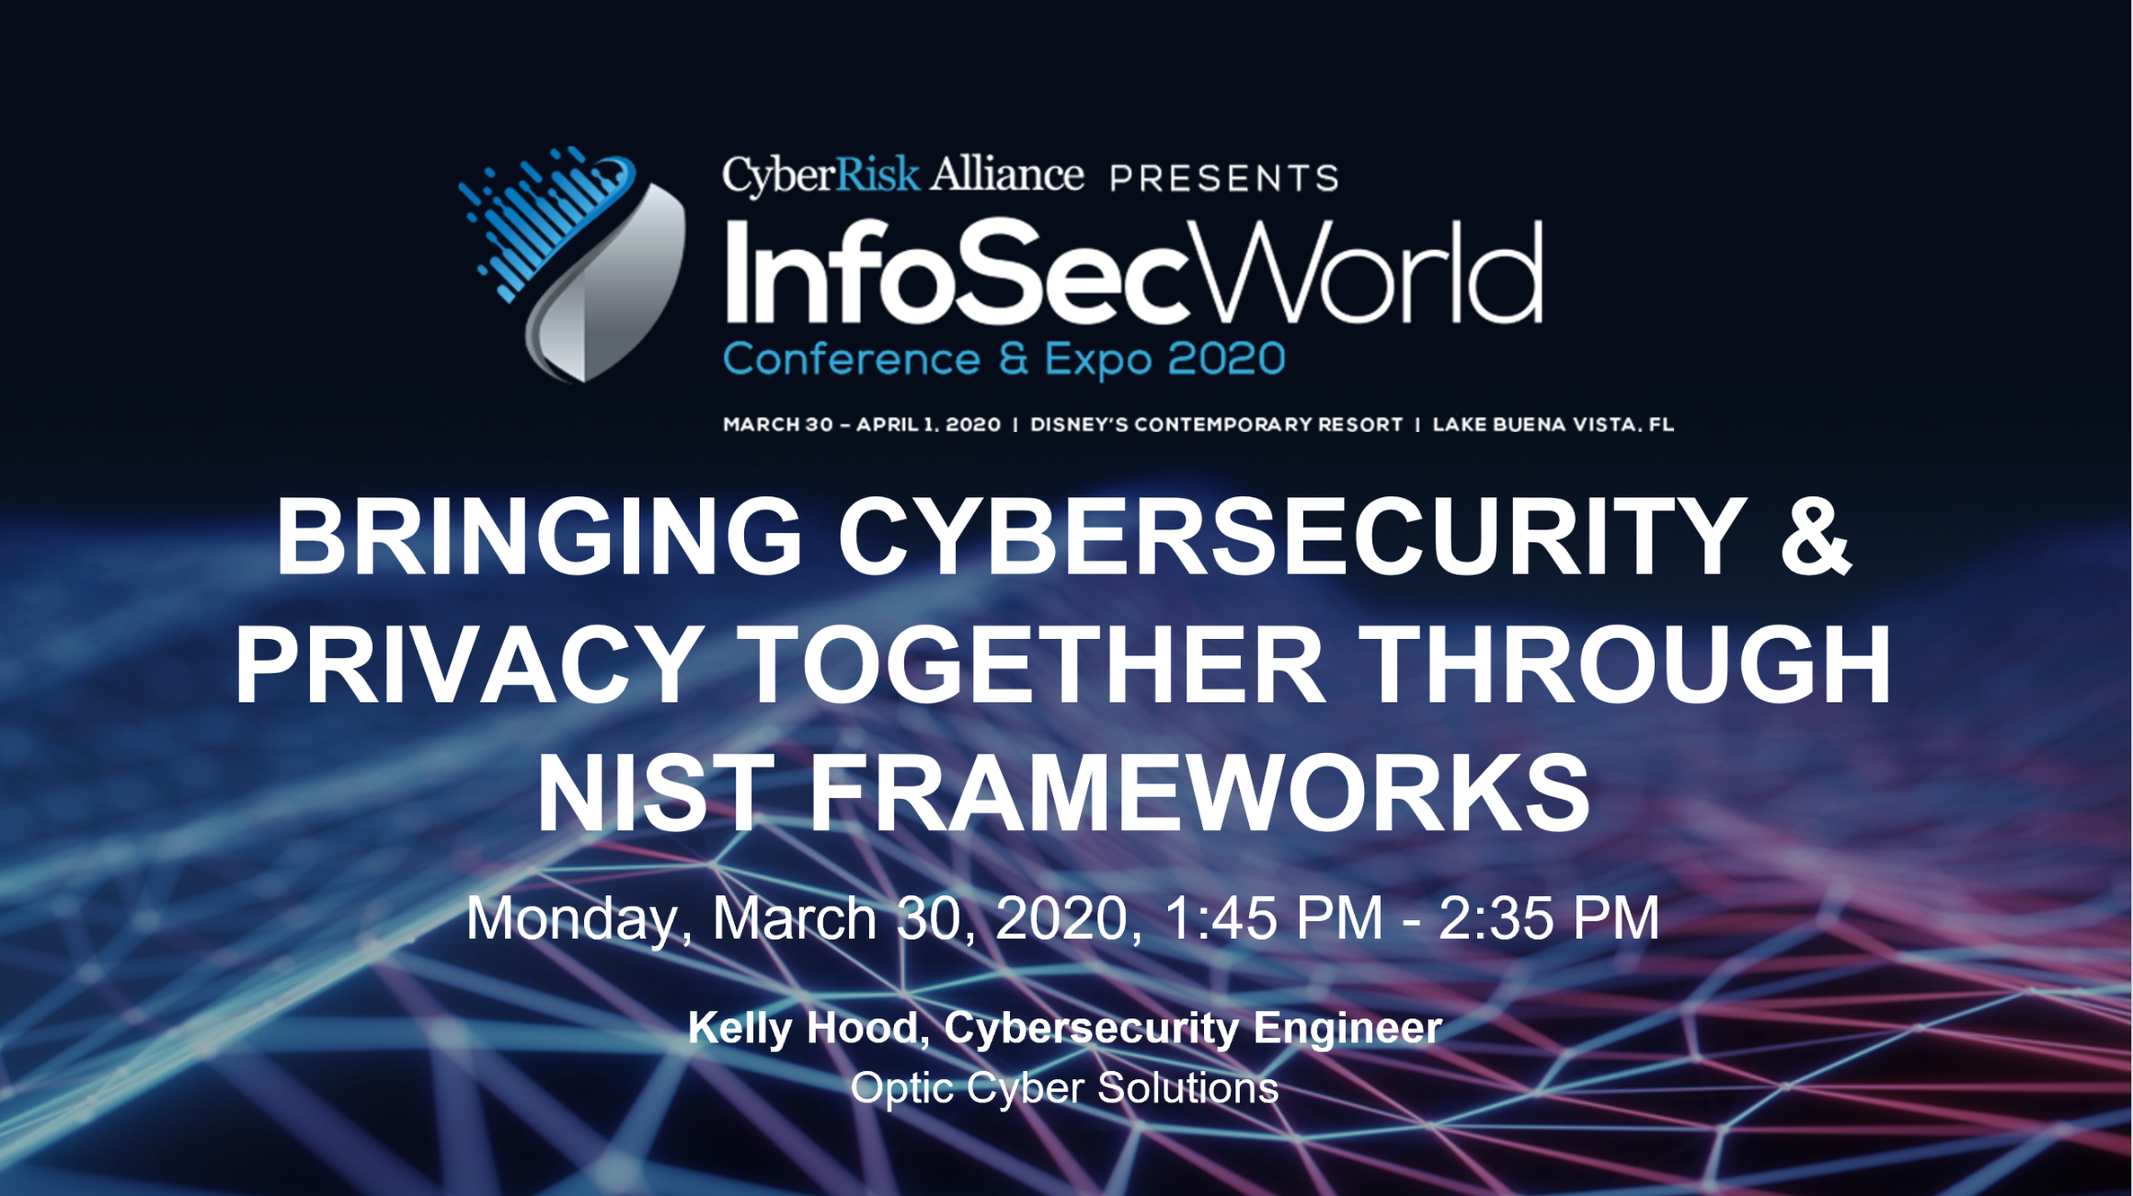
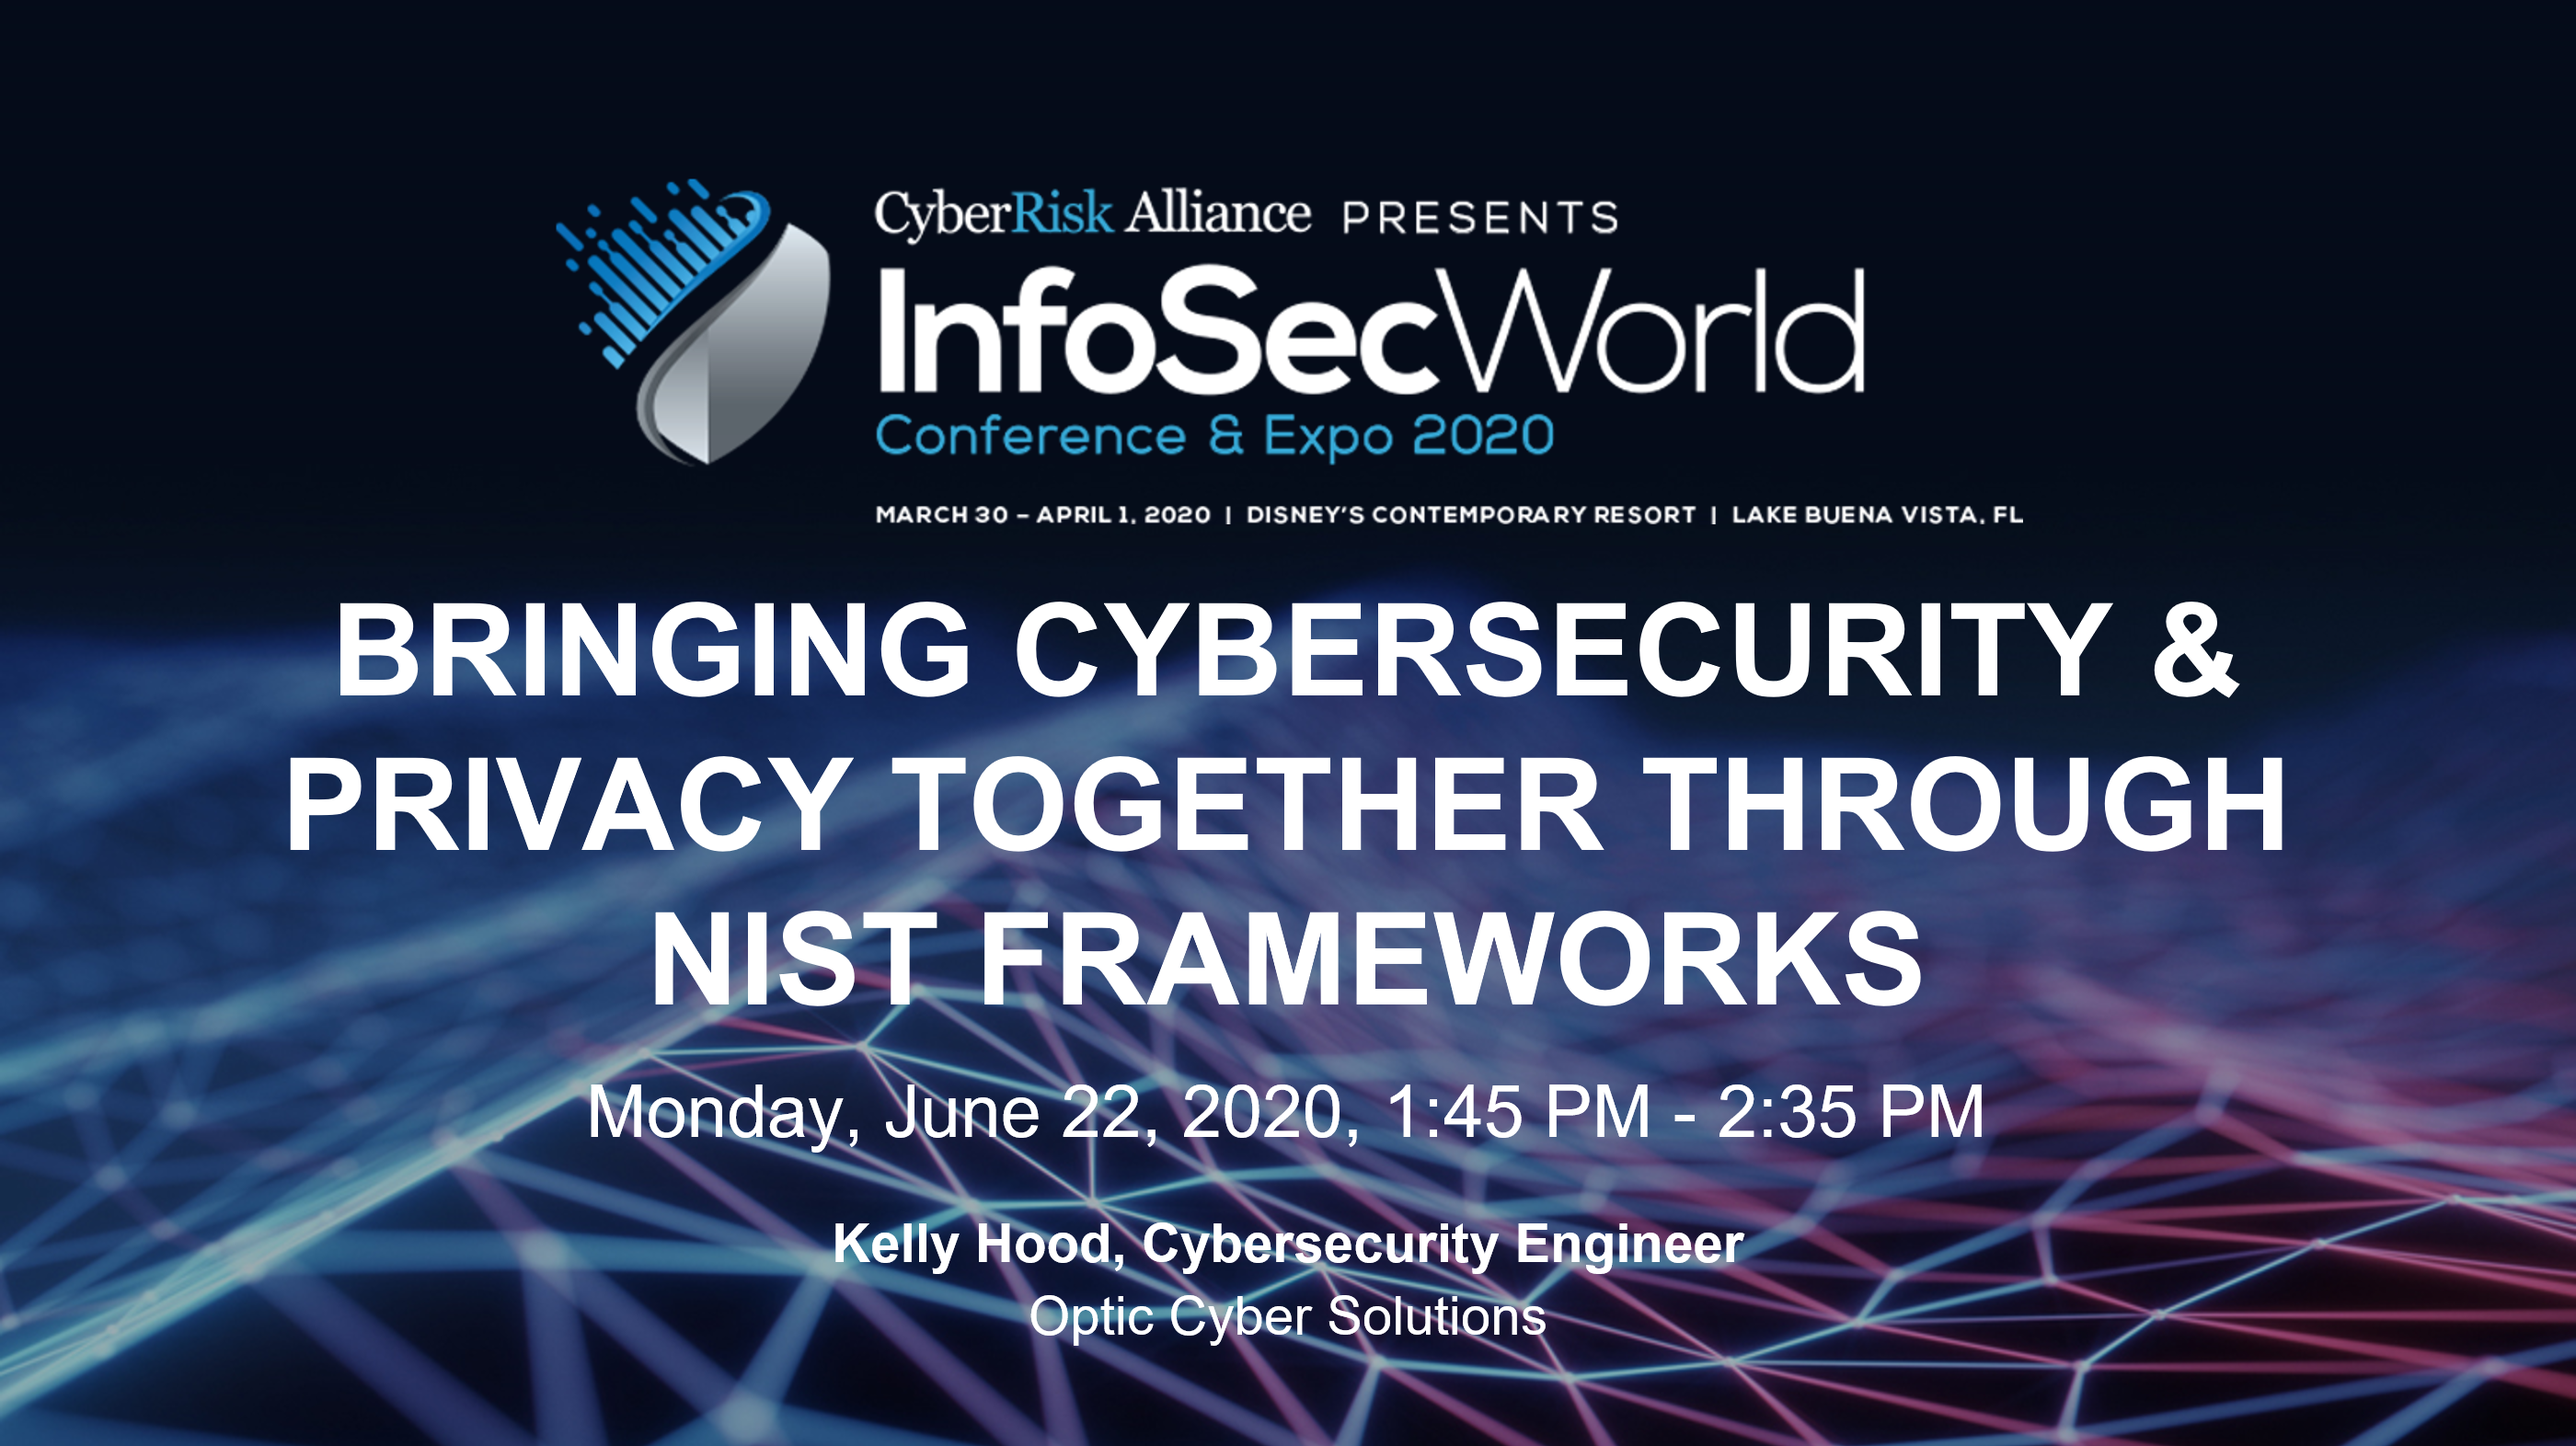
New blog post & date change

diff --git a/resources.html b/resources.html
@@ -137,7 +137,7 @@
                 </div>
                 
                 <div class="row text-center">
-                    <div class="col-lg-4 col-md-12 mt-4">
+                    <div class="col-lg-6 col-md-12 mt-4">
                         <a href="https://www.rsaconference.com/industry-topics/blog/changing-the-conversation-leverage-business-priorities-to-manage-cyber-risk" target="_blank">
                             <img class="img-thumbnail" src="img/webinars/rsa-changing-conversation.jpg" width="400">
                             <br>
@@ -146,7 +146,7 @@
                         </a>
                     </div>
                     
-                    <div class="col-lg-4 col-md-12 mt-4">
+                    <div class="col-lg-6 col-md-12 mt-4">
                         <a href="https://cyber-security.mytechmag.com/data-security-privacy-how-much-is-enough-1285.html" target="_blank">
                             <img class="img-thumbnail" src="img/webinars/mytechmag-web-article.png" width="400">
                             <br>
@@ -154,13 +154,24 @@
                             Data Security & Privacy - How Much is Enough?
                         </a>
                     </div>
+                </div>
 
-                    <div class="col-lg-4 col-md-12 mt-4">
+                <div class="row text-center">
+                    <div class="col-lg-6 col-md-12 mt-4">
                         <a href="https://www.rsaconference.com/industry-topics/blog/operationalizing-cybersecurity" target="_blank">
                             <img class="img-thumbnail" src="img/webinars/operationalizing-cybersecurity.png" width="400">
                             <br>
                             <i class="far fa-newspaper" alt="article"></i>
                             Operationalizing Cybersecurity
+                        </a>
+                    </div>
+
+                    <div class="col-lg-6 col-md-12 mt-4">
+                        <a href="https://www.isaca.org/resources/news-and-trends/isaca-now-blog/2020" target="_blank">
+                            <img class="img-thumbnail" src="img/webinars/2020-03-23-isaca-preparing-for-ransomeware.png" width="400">
+                            <br>
+                            <i class="far fa-newspaper" alt="article"></i>
+                            The Importance of Preparing for a Ransomware Attack Hits Close to Home
                         </a>
                     </div>
                 </div>
@@ -248,7 +259,7 @@
                                         <h5><a href="https://www.infosecworldusa.com/2020/session/189765/f3-bringing-cybersecurity-privacy-together-through-nist-frameworks" target="_blank">
                                             Bringing Cybersecurity & Privacy Together Through NIST Frameworks
                                         </a></h5>
-                                        <i>InfoSec World Conference & Expo, March 30 2020</i>
+                                        <i>InfoSec World Conference & Expo, June 22 2020</i>
                                     </div>
                                 </div>
 

diff --git a/CHANGELOG.md b/CHANGELOG.md
@@ -1,4 +1,5 @@
 # Changelog
+
 All notable changes to this project will be documented in this file.
 
 Log format is based on [Keep a Changelog](https://keepachangelog.com/en/1.0.0/).
@@ -6,6 +7,13 @@ New deployments of the website are considered releases, and are versioned in the
 format `YYYY.##`. For example, `2019.01` is the first release of 2019.
 
 ## [Unreleased]
+
+## [2020.07]
+### Added
+- Blog Post: The Importance of Preparing for Ransomware
+
+### Changed
+- Changed date for InfoSecWorld 2020 Session
 
 ## [2020.06]
 ### Changed
@@ -177,7 +185,8 @@ format `YYYY.##`. For example, `2019.01` is the first release of 2019.
 ### Added
 - One-page brochure-style website
 
-[Unreleased]: https://github.com/opticcyber/opticcyber.github.io/compare/2020.06...HEAD
+[Unreleased]: https://github.com/opticcyber/opticcyber.github.io/compare/2020.07...HEAD
+[2020.07]: https://github.com/opticcyber/opticcyber.github.io/releases/tag/2020.07
 [2020.06]: https://github.com/opticcyber/opticcyber.github.io/releases/tag/2020.06
 [2020.05]: https://github.com/opticcyber/opticcyber.github.io/releases/tag/2020.05
 [2020.04]: https://github.com/opticcyber/opticcyber.github.io/releases/tag/2020.04
